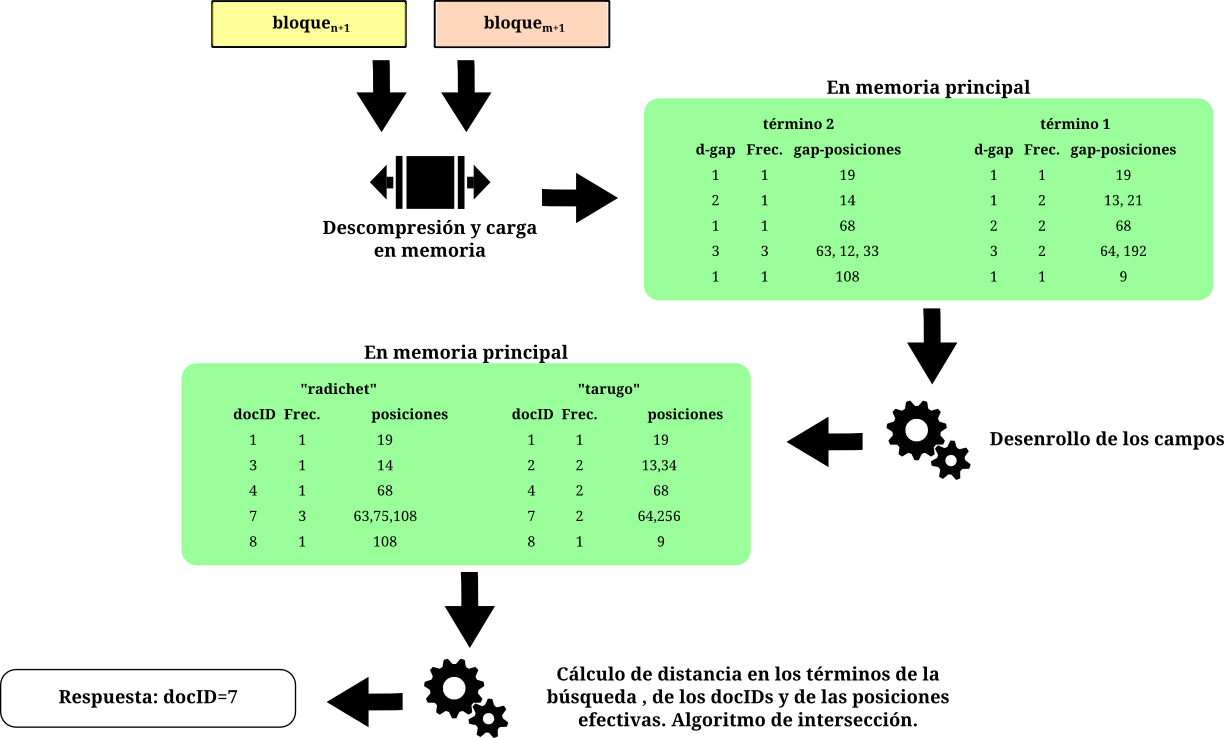
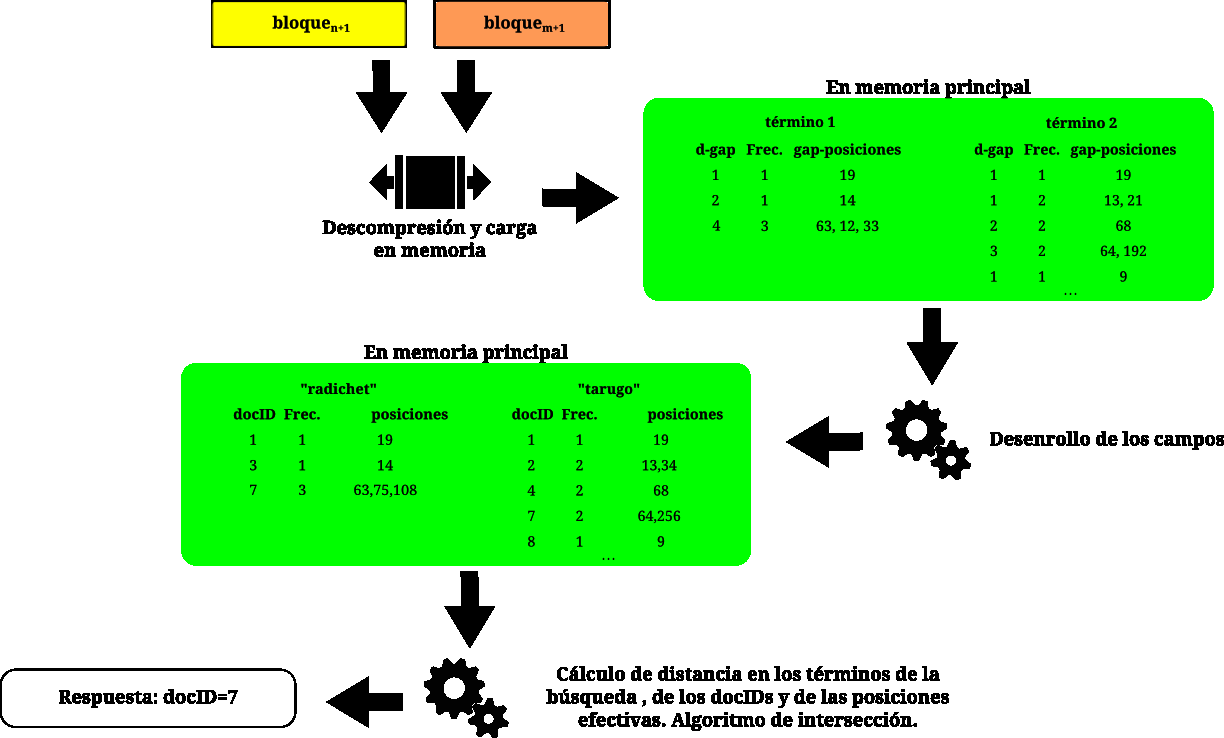
Parte05 por Damián

diff --git a/Docs/Parte05.tex b/Docs/Parte05.tex
@@ -1,1 +1,65 @@
 \section{Haciendo consultas}
+
+En esta sección se ilustrará como funciona el algoritmo que utiliza el programa al momento de resolver una consulta.
+
+% Asumo que levantamos la tabla en memoria cada vez que se realiza una consulta. No es lo ideal, pero es lo que pide el enunciado.
+\subsection{Puesta en marcha}
+
+Ni bien se ejecuta el programa, éste se prepara para resolver la consulta armando para ello una tabla en memoria. Esta tabla se compondrá de tres columnas: Término, Frecuencia Absoluta y Offset.
+
+Cada columna se extrae descomprimiendo desde disco los archivos .dic, .frq y .ofs respectivamente.
+A primera vista, pareciera descabellado cargar el contenido de estos 3 archivos en memoria, pero haciendo algunas cuentas se ve que el espacio ocupado no es intimidante:
+
+Se estima que para una colección de 1 millon de documentos habrá aproximadamente 500000 términos distintos. Si consideramos que en promedio, los terminos ocupan 6 bytes aprox. y si además le sumamos a esto 2 bytes por término (contemplando su frec. abs. y su offset), se tiene que se requieren 8 bytes por término. Haciendo la cuenta: 500000*8 = 4 millones de Bytes ≈ 3906 KBytes ≈ \textbf{3.8 MBytes}
+
+\textit{Nota}: lo ideal sería cargar esta tabla en memoria por única vez y luego realizar todas las consultas que se deseen. Pero por restricciones del enunciado del presente trabajo práctico, se cargará la tabla de nuevo para cada consulta.
+
+\subsection{Ejemplo de consulta}
+
+\subsubsection{Normalización y búsqueda}
+
+Supongamos por ejemplo que el usuario ingresó la siguiente frase: "Radichet, tarugo"
+
+El primer paso será normalizar la consulta pasando todas las palabras a letra minúscula y eliminando los caracteres que el sistema ignora como son los signos de puntuación. La consulta quedará entonces así: "radichet tarugo"
+A partir de la consulta normalizada se obtienen los términos <<radichet>> y <<tarugo>>. 
+A continuación se los ubica en la tabla generada (ver Figura \ref{fig:consulta1}) y se obtienen sus frecuencias absolutas y offset.
+
+
+\begin{figure}[!h]
+\centering
+    \includegraphics[scale=0.8]{./Images/consulta1.png}
+\caption{Armado en memoria de la tabla de términos y búsqueda en el índice invertido}
+\label{fig:consulta1}
+\end{figure}
+
+
+Con el offset, se ubican los bloques que corresponden a cada término en el índice invertido (archivo .idx) y se los descomprime obteniendo los documentos donde aparecen y las posiciones dentro de los mismos como se muestra en la Figura \ref{fig:consulta2}.
+
+
+\begin{figure}[!h]
+\centering
+    \includegraphics[scale=0.6]{./Images/consulta2.png}
+\caption{Obtención de las posiciones a partir de la descompresion de bloques}
+\label{fig:consulta2}
+\end{figure}
+
+
+\subsubsection{Algoritmo de intersección}
+
+La consulta de frases implica que la consulta es de tipo booleana, por lo que se la puede ver de la siguiente forma: 
+\[ <<radichet>> AND <<tarugo>> \]
+Los documentos entregados como resultado de esta consulta serán:
+\begin{enumerate}
+	\item los que contengan ambos términos y
+	\item los que tengan a <<radichet>> en la posición \textit{i} y a <<tarugo>> en \textit{i+1}.
+\end{enumerate}
+
+Para resolver el primer punto se utiliza la frecuencia absoluta de los términos (que es la cantidad de documentos en los que aparece cada uno). En el ejemplo, el término <<radichet>> tiene frecuencia 3 y <<tarugo>> 23 por lo que, la máxima cantidad de documentos que podran cumplir con los requisitos, serán 3. 
+Finalmente se ve que solo 2 documentos (el 1 y el 7) contienen a ambos términos).
+
+El segundo punto se resuelve recorriendo la lista de posiciones de los documentos 1 y 7 para cada término en simultaneo.
+
+Finalmente, los documentos que cumplen con los dos puntos son presentados como resultado. En el ejemplo solo el documento de docID = 7 cumple con los requisitos (<<radichet>> en posición 63 y <<tarugo>> en 64).
+
+
+
